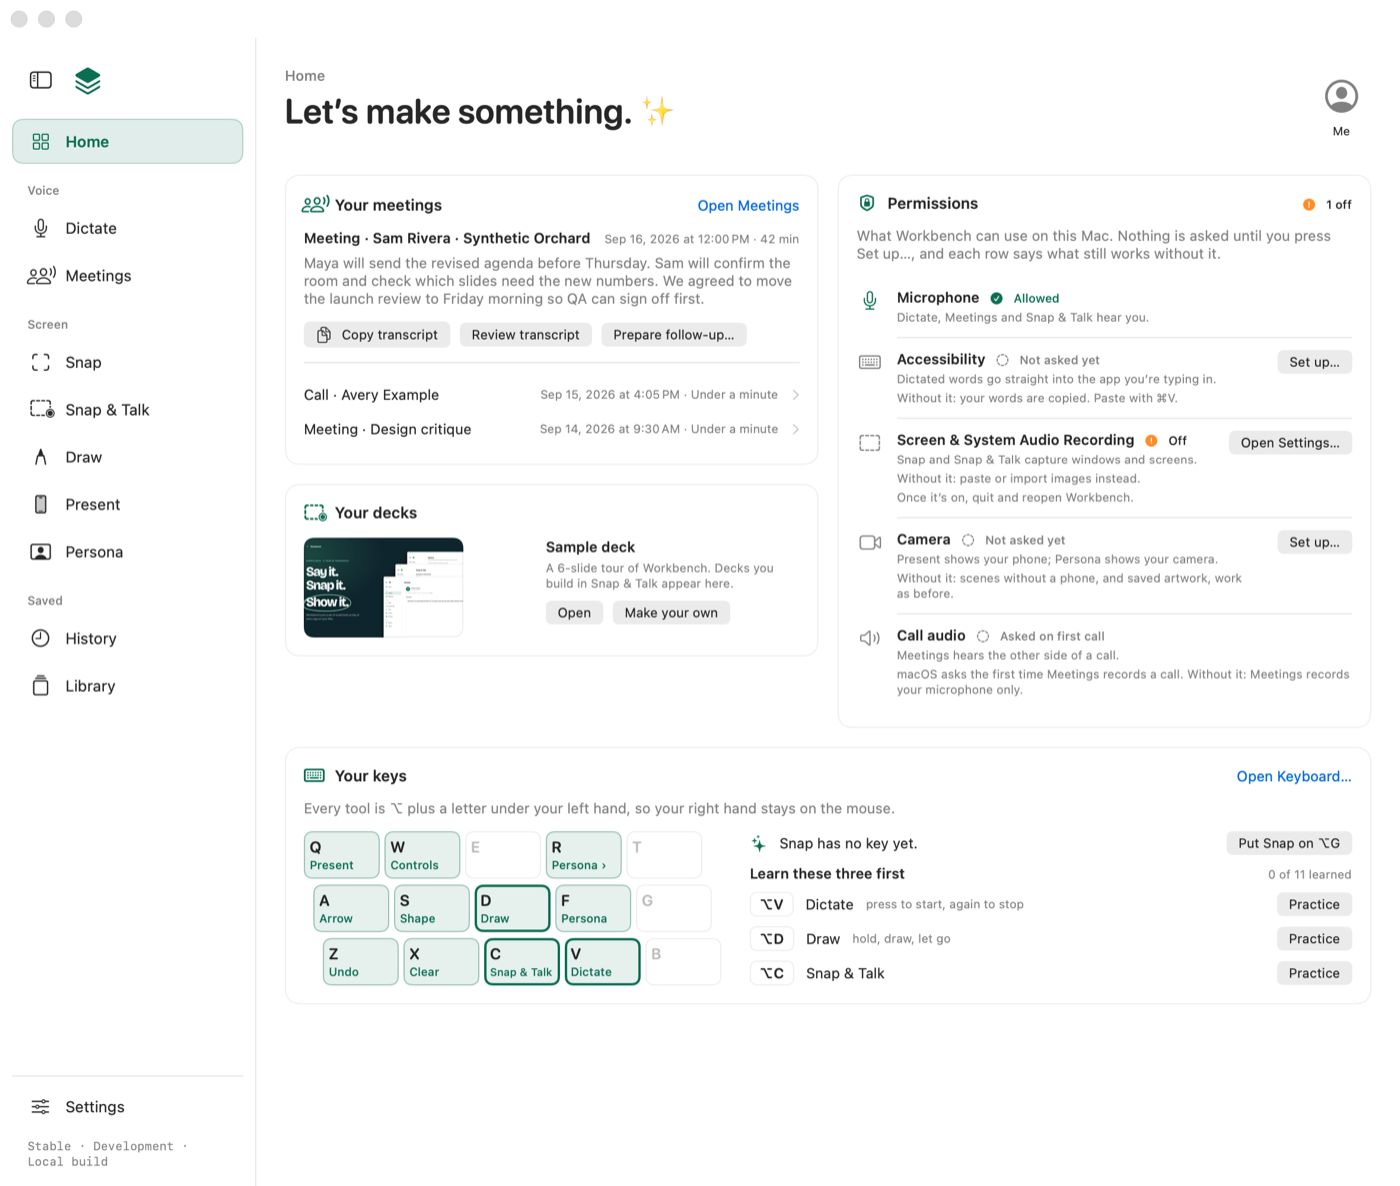
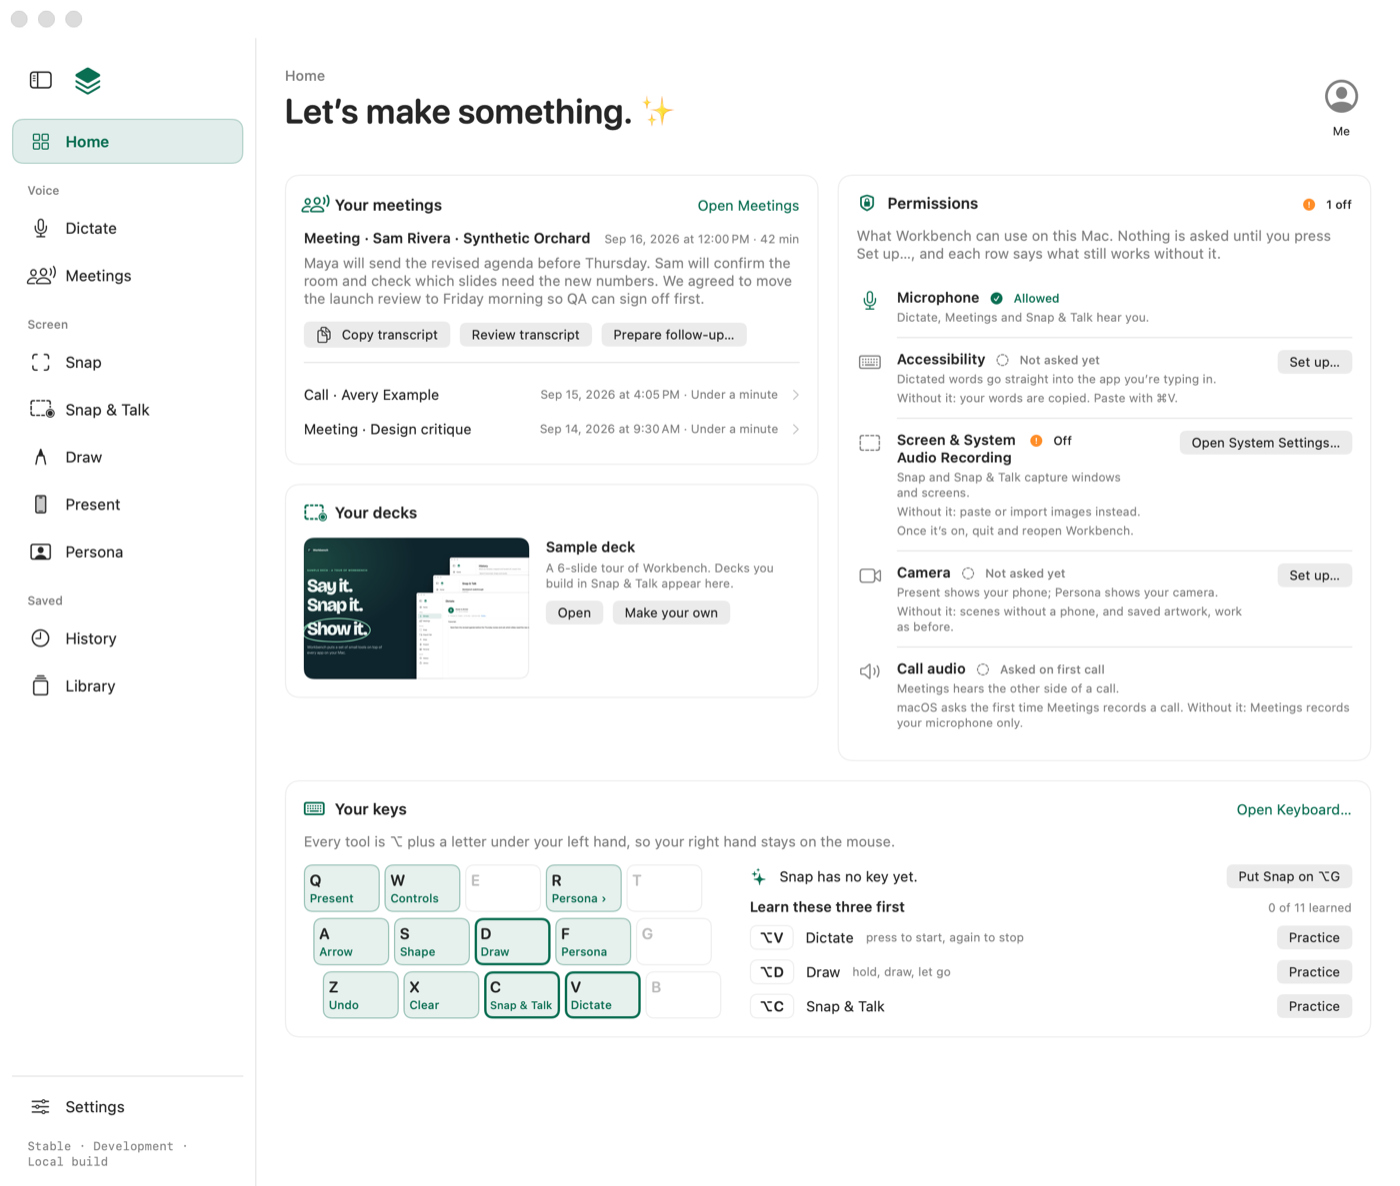
Keep links in Workbench's colour and summaries in the header
.buttonStyle(.workbenchLink) joins the page kit: .link draws system blue on
macOS whatever the tint. A page with sections takes its section's summary in
the header (Keyboard's moves there first). Present's header divider stays
within the page padding, the deck thumbnail keeps its width, and Home's
permission rows say Open System Settings…, as Snap does.

Refs #7

diff --git a/Sources/LocalVoice/WorkbenchHome.swift b/Sources/LocalVoice/WorkbenchHome.swift
@@ -442,10 +442,14 @@ struct WorkbenchHome: View {
     /// other page has its title (#134). Each section keeps its own summary below.
     private func sectionedHeader(_ page: String, selection: String) -> some View {
         VStack(alignment: .leading, spacing: Workbench.sectionSpacing) {
-            WorkbenchPageHeader(page)
+            WorkbenchPageHeader(page, summary: Self.sectionSummaries[selection])
             sectionSwitcher(page, selection: selection) { model.page = $0 }
         }.padding([.horizontal, .top], Workbench.pagePadding)
     }
+    /// A section's one-line summary, in the page header above the switcher where every other page
+    /// has its own; the section's view does not repeat it.
+    static let sectionSummaries: [String: String] = [
+        "shortcuts": "One set of shortcuts for speaking, drawing and presenting."]
 
     /// A page whose own view draws no page title takes its name from the page record here, in
     /// the same place and type as every other page (#134). A page of two columns is divided
@@ -454,7 +458,8 @@ struct WorkbenchHome: View {
         VStack(alignment: .leading, spacing: 0) {
             WorkbenchPageHeader(route, summary: summary)
                 .padding([.horizontal, .top], Workbench.pagePadding).padding(.bottom, divided ? Workbench.sectionSpacing : 0)
-            if divided { Divider() }
+            // Within the page's padding, as every other page's dividers are; never to the window edge.
+            if divided { Divider().padding(.horizontal, Workbench.pagePadding) }
             page()
         }
     }
@@ -568,7 +573,7 @@ struct WorkbenchHomePage: View {
                         HomeGreeting(hasPlayed: greetingPlayed, returning: journey.hasDictated)
                         // The one way back to the skipped guide, until someone dictates (#15).
                         if journey.offersGuide {
-                            Button("Show me a first dictation") { showGuide() }.buttonStyle(.link).font(.callout)
+                            Button("Show me a first dictation") { showGuide() }.buttonStyle(.workbenchLink).font(.callout)
                                 .help("Bring back the short guide to your first dictation.")
                                 .accessibilityIdentifier("home.guide.show")
                         }
@@ -759,7 +764,7 @@ struct WorkbenchHomePage: View {
         WorkbenchTile("First dictation", symbol: WorkbenchHome.symbol(of: "dictate"), accessory: {
             // One small switch for the guide until the first dictation (#15).
             if journey.offersSkip {
-                Button("Skip for now") { skipGuide() }.buttonStyle(.link)
+                Button("Skip for now") { skipGuide() }.buttonStyle(.workbenchLink)
                     .help("Hide this guide. Show me a first dictation brings it back.")
             }
         }) {
@@ -790,10 +795,10 @@ struct WorkbenchHomePage: View {
                     HStack(spacing: 12) {
                         Button { model.copyTranscript() } label: { Label("Copy text", systemImage: "doc.on.doc") }
                         if model.preferences.delivery == .paste && !model.accessibilityGranted {
-                            Button("Set up automatic paste…") { model.requestAccessibility() }.buttonStyle(.link)
+                            Button("Set up automatic paste…") { model.requestAccessibility() }.buttonStyle(.workbenchLink)
                         }
                         Spacer()
-                        Button("Done") { stayInGuide = false }.buttonStyle(.link)
+                        Button("Done") { stayInGuide = false }.buttonStyle(.workbenchLink)
                     }.controlSize(.large)
                     if model.preferences.delivery == .paste && !model.accessibilityGranted {
                         Text("Automatic paste needs Accessibility approval. Until then, transcripts are copied for ⌘V. Your organisation may need to approve this.")

diff --git a/Sources/LocalVoice/HomeTiles.swift b/Sources/LocalVoice/HomeTiles.swift
@@ -72,7 +72,7 @@ struct HomeMeetingTile: View {
     var body: some View {
         WorkbenchTile("Your meetings", symbol: WorkbenchHome.symbol(of: "meeting"), accessory: {
             if !recent.isEmpty {
-                Button("Open Meetings") { model.page = "meeting" }.buttonStyle(.link).font(.callout)
+                Button("Open Meetings") { model.page = "meeting" }.buttonStyle(.workbenchLink).font(.callout)
                     .accessibilityIdentifier("home.meeting.open")
             }
         }) {
@@ -289,7 +289,7 @@ struct HomeDecksTile: View {
     var body: some View {
         WorkbenchTile("Your decks", symbol: WorkbenchHome.symbol(of: "readback"), accessory: {
             if !decks.isEmpty, sample != nil {
-                Button("Sample deck") { openSample() }.buttonStyle(.link).font(.callout)
+                Button("Sample deck") { openSample() }.buttonStyle(.workbenchLink).font(.callout)
                     .help("A short tour of Workbench that came with the app.")
                     .accessibilityIdentifier("home.sample.link")
             }
@@ -329,8 +329,8 @@ struct HomeDecksTile: View {
                 .init(title: deck.title, detail: "Snap & Talk session · first screen",
                       source: .file(deck.thumbnail, missing: "This screen is no longer in the session folder."))
             }) {
-                HomeThumbnail(url: deck.thumbnail, revision: deck.updatedAt.description, caption: nil)
-            }.frame(width: 140)
+                HomeThumbnail(url: deck.thumbnail, revision: deck.updatedAt.description, caption: nil).frame(width: 140)
+            }.frame(width: 140, alignment: .leading)
             VStack(alignment: .leading, spacing: 4) {
                 Text(deck.title).font(.callout.weight(.semibold)).lineLimit(2)
                 Text("\(deck.screens) \(deck.screens == 1 ? "screen" : "screens") · " + HomeMeetingTile.stamp(deck.updatedAt))
@@ -514,7 +514,7 @@ struct HomeKeysTile: View {
     var body: some View {
         let entries = keyboard.entries
         WorkbenchTile("Your keys", symbol: "keyboard", accessory: {
-            Button("Open Keyboard…") { keyboard.stopInteraction(); model.page = "shortcuts" }.buttonStyle(.link).font(.callout)
+            Button("Open Keyboard…") { keyboard.stopInteraction(); model.page = "shortcuts" }.buttonStyle(.workbenchLink).font(.callout)
                 .help("Settings › Keyboard: every shortcut, its keys and its conflicts.")
                 .accessibilityIdentifier("home.keys.all")
         }) {

diff --git a/Sources/LocalVoice/HomePermissions.swift b/Sources/LocalVoice/HomePermissions.swift
@@ -92,7 +92,7 @@ struct MacPermissionRow: Equatable, Identifiable {
         case request
         /// Opens Privacy & Security at this approval's list.
         case openSettings
-        var title: String { self == .request ? "Set up…" : "Open Settings…" }
+        var title: String { self == .request ? "Set up…" : "Open System Settings…" }
     }
     let permission: MacPermission
     let state: MacPermissionState
@@ -249,7 +249,7 @@ struct HomePermissionsPanel: View {
                 }
                 if !snapshot.needsAttention {
                     Button(snapshot.isComplete ? "Hide details" : "Done for now") { dismissed = true; showingDetails = false }
-                        .buttonStyle(.link).font(.callout)
+                        .buttonStyle(.workbenchLink).font(.callout)
                         .help(snapshot.isComplete ? "Fold the panel to one line." : "Fold the panel to one line. Each tool still asks when it first needs something.")
                         .accessibilityIdentifier("home.permissions.fold")
                 }
@@ -259,7 +259,7 @@ struct HomePermissionsPanel: View {
                          : "Each tool asks when it first needs something. Allowed: " + allowedNames + ".")
                         .font(.callout).foregroundStyle(.secondary).fixedSize(horizontal: false, vertical: true)
                     Spacer(minLength: 8)
-                    Button("Show details") { showingDetails = true }.buttonStyle(.link).font(.callout)
+                    Button("Show details") { showingDetails = true }.buttonStyle(.workbenchLink).font(.callout)
                         .accessibilityIdentifier("home.permissions.details")
                 }
             }

diff --git a/Sources/LocalVoice/WorkbenchPageStyle.swift b/Sources/LocalVoice/WorkbenchPageStyle.swift
@@ -96,6 +96,21 @@ struct WorkbenchNote: View {
     }
 }
 
+/// A text link in Workbench's accent. `.buttonStyle(.link)` ignores the tint on macOS and draws
+/// system blue beside mint buttons; this keeps a link the app's colour. Use `.buttonStyle(.workbenchLink)`.
+struct WorkbenchLinkStyle: ButtonStyle {
+    @Environment(\.isEnabled) private var isEnabled
+    func makeBody(configuration: Configuration) -> some View {
+        configuration.label
+            .foregroundStyle(isEnabled ? Workbench.accent : Color.secondary)
+            .opacity(configuration.isPressed ? 0.6 : 1)
+            .contentShape(Rectangle())
+    }
+}
+extension ButtonStyle where Self == WorkbenchLinkStyle {
+    static var workbenchLink: WorkbenchLinkStyle { .init() }
+}
+
 /// What a status says about itself: done, needs the person, or plain information.
 enum WorkbenchTone: Equatable { case done, attention, neutral }
 

diff --git a/Sources/LocalVoice/KeyboardCoach.swift b/Sources/LocalVoice/KeyboardCoach.swift
@@ -330,8 +330,7 @@ struct KeyboardCoachView: View {
 
     var body: some View {
         VStack(alignment: .leading, spacing: Workbench.sectionSpacing) {
-            // Settings' title and switcher name this section, so it opens on its summary (#134).
-            Text("One set of shortcuts for speaking, drawing and presenting.").foregroundStyle(.secondary)
+            // The page header carries this section's summary, above the switcher (WorkbenchHome.sectionSummaries).
             HStack(alignment: .top, spacing: 20) {
                 actionList.frame(width: 230, height: 230)
                 Divider().frame(height: 230)

diff --git a/docs/desktop.md b/docs/desktop.md
@@ -53,6 +53,10 @@ Every page uses the same few parts, so a page built by any person or agent looks
 
 **Rules every page follows** (agreed with the page review, 7 Oct): every `Workbench.surface` container carries the hairline border, because the window and control backgrounds are the same colour on macOS 26; orange and red never colour text, only the symbol beside primary text (`WorkbenchStatusBadge`); text styles rather than fixed point sizes wherever a label is not a fixed-size key or glyph; Workbench.accent rather than `Color.accentColor`, which resolves to system blue; `…` only on a button that opens a dialog, sheet or another step.
 
+**Links.** `.buttonStyle(.workbenchLink)`: a text door in Workbench's accent. `.buttonStyle(.link)` and a plain `Link` draw system blue on macOS whatever the tint, beside mint buttons.
+
+**Section summaries.** A page with sections says what the shown section is for in its header, above the switcher (`WorkbenchHome.sectionSummaries`), as every other page does; the section's own view does not repeat it.
+
 **Words.** One name per thing (the Grammar's Names). A button that opens something needing another step ends in …. A status describes what actually happened.
 
 ## Home
